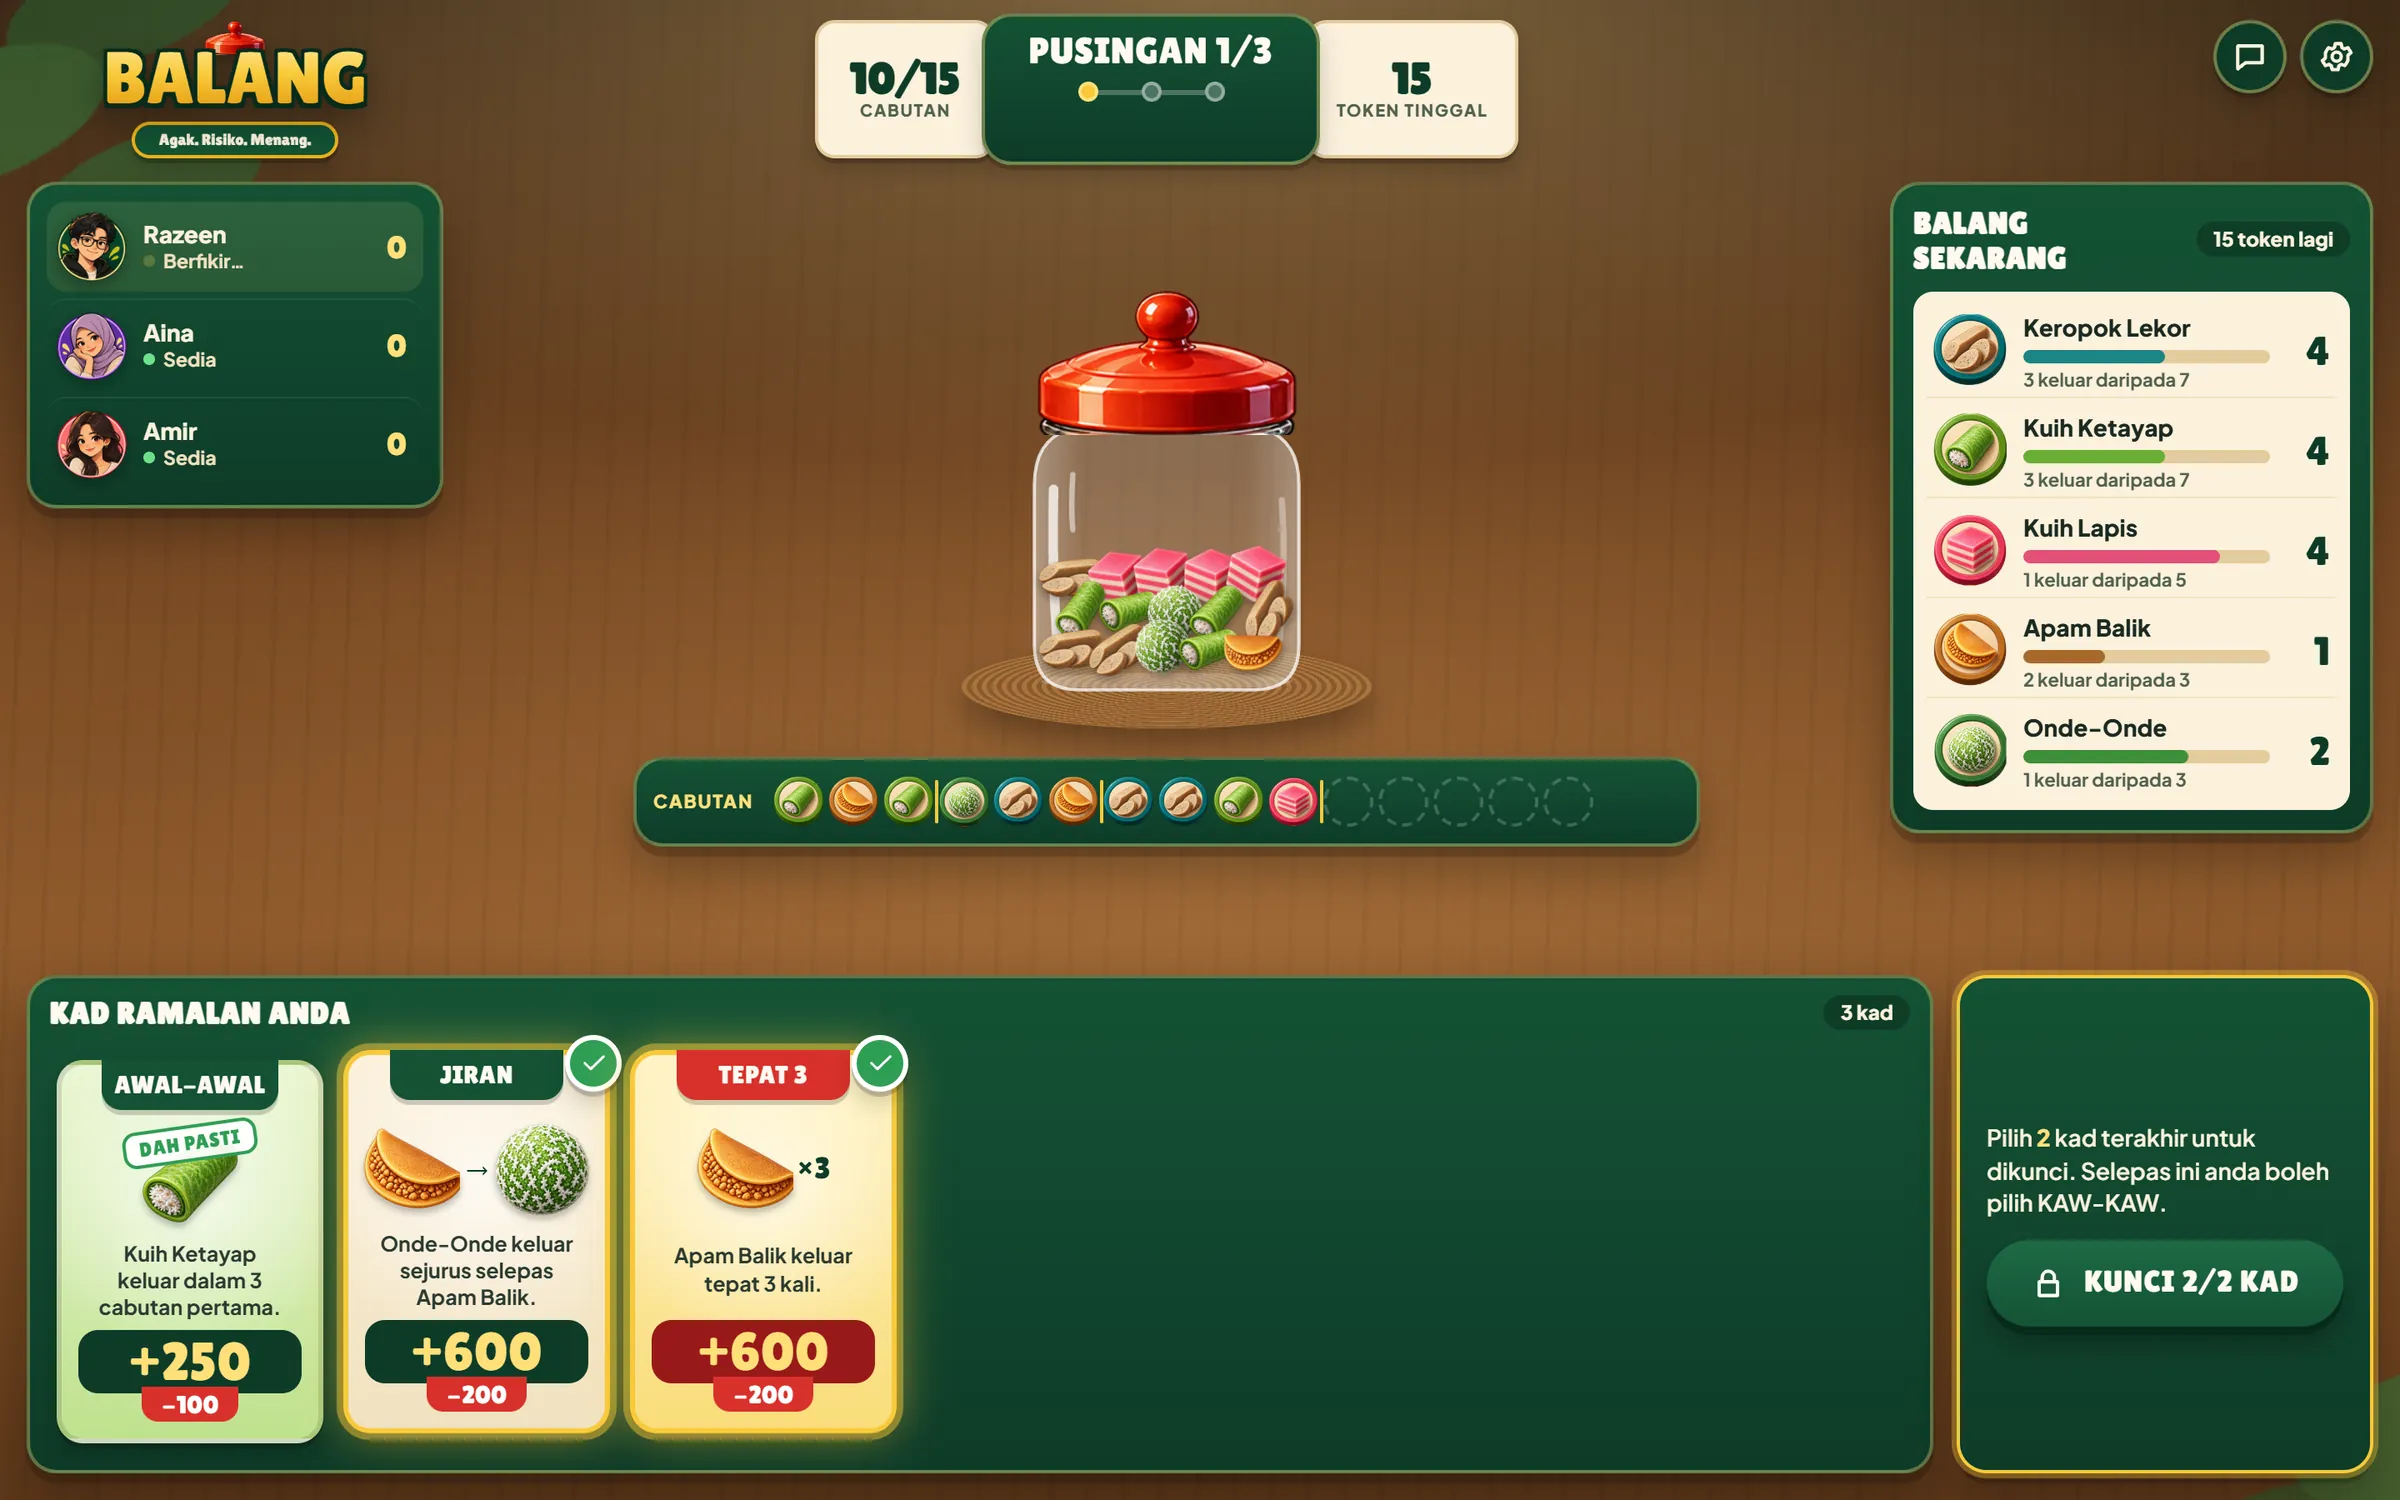
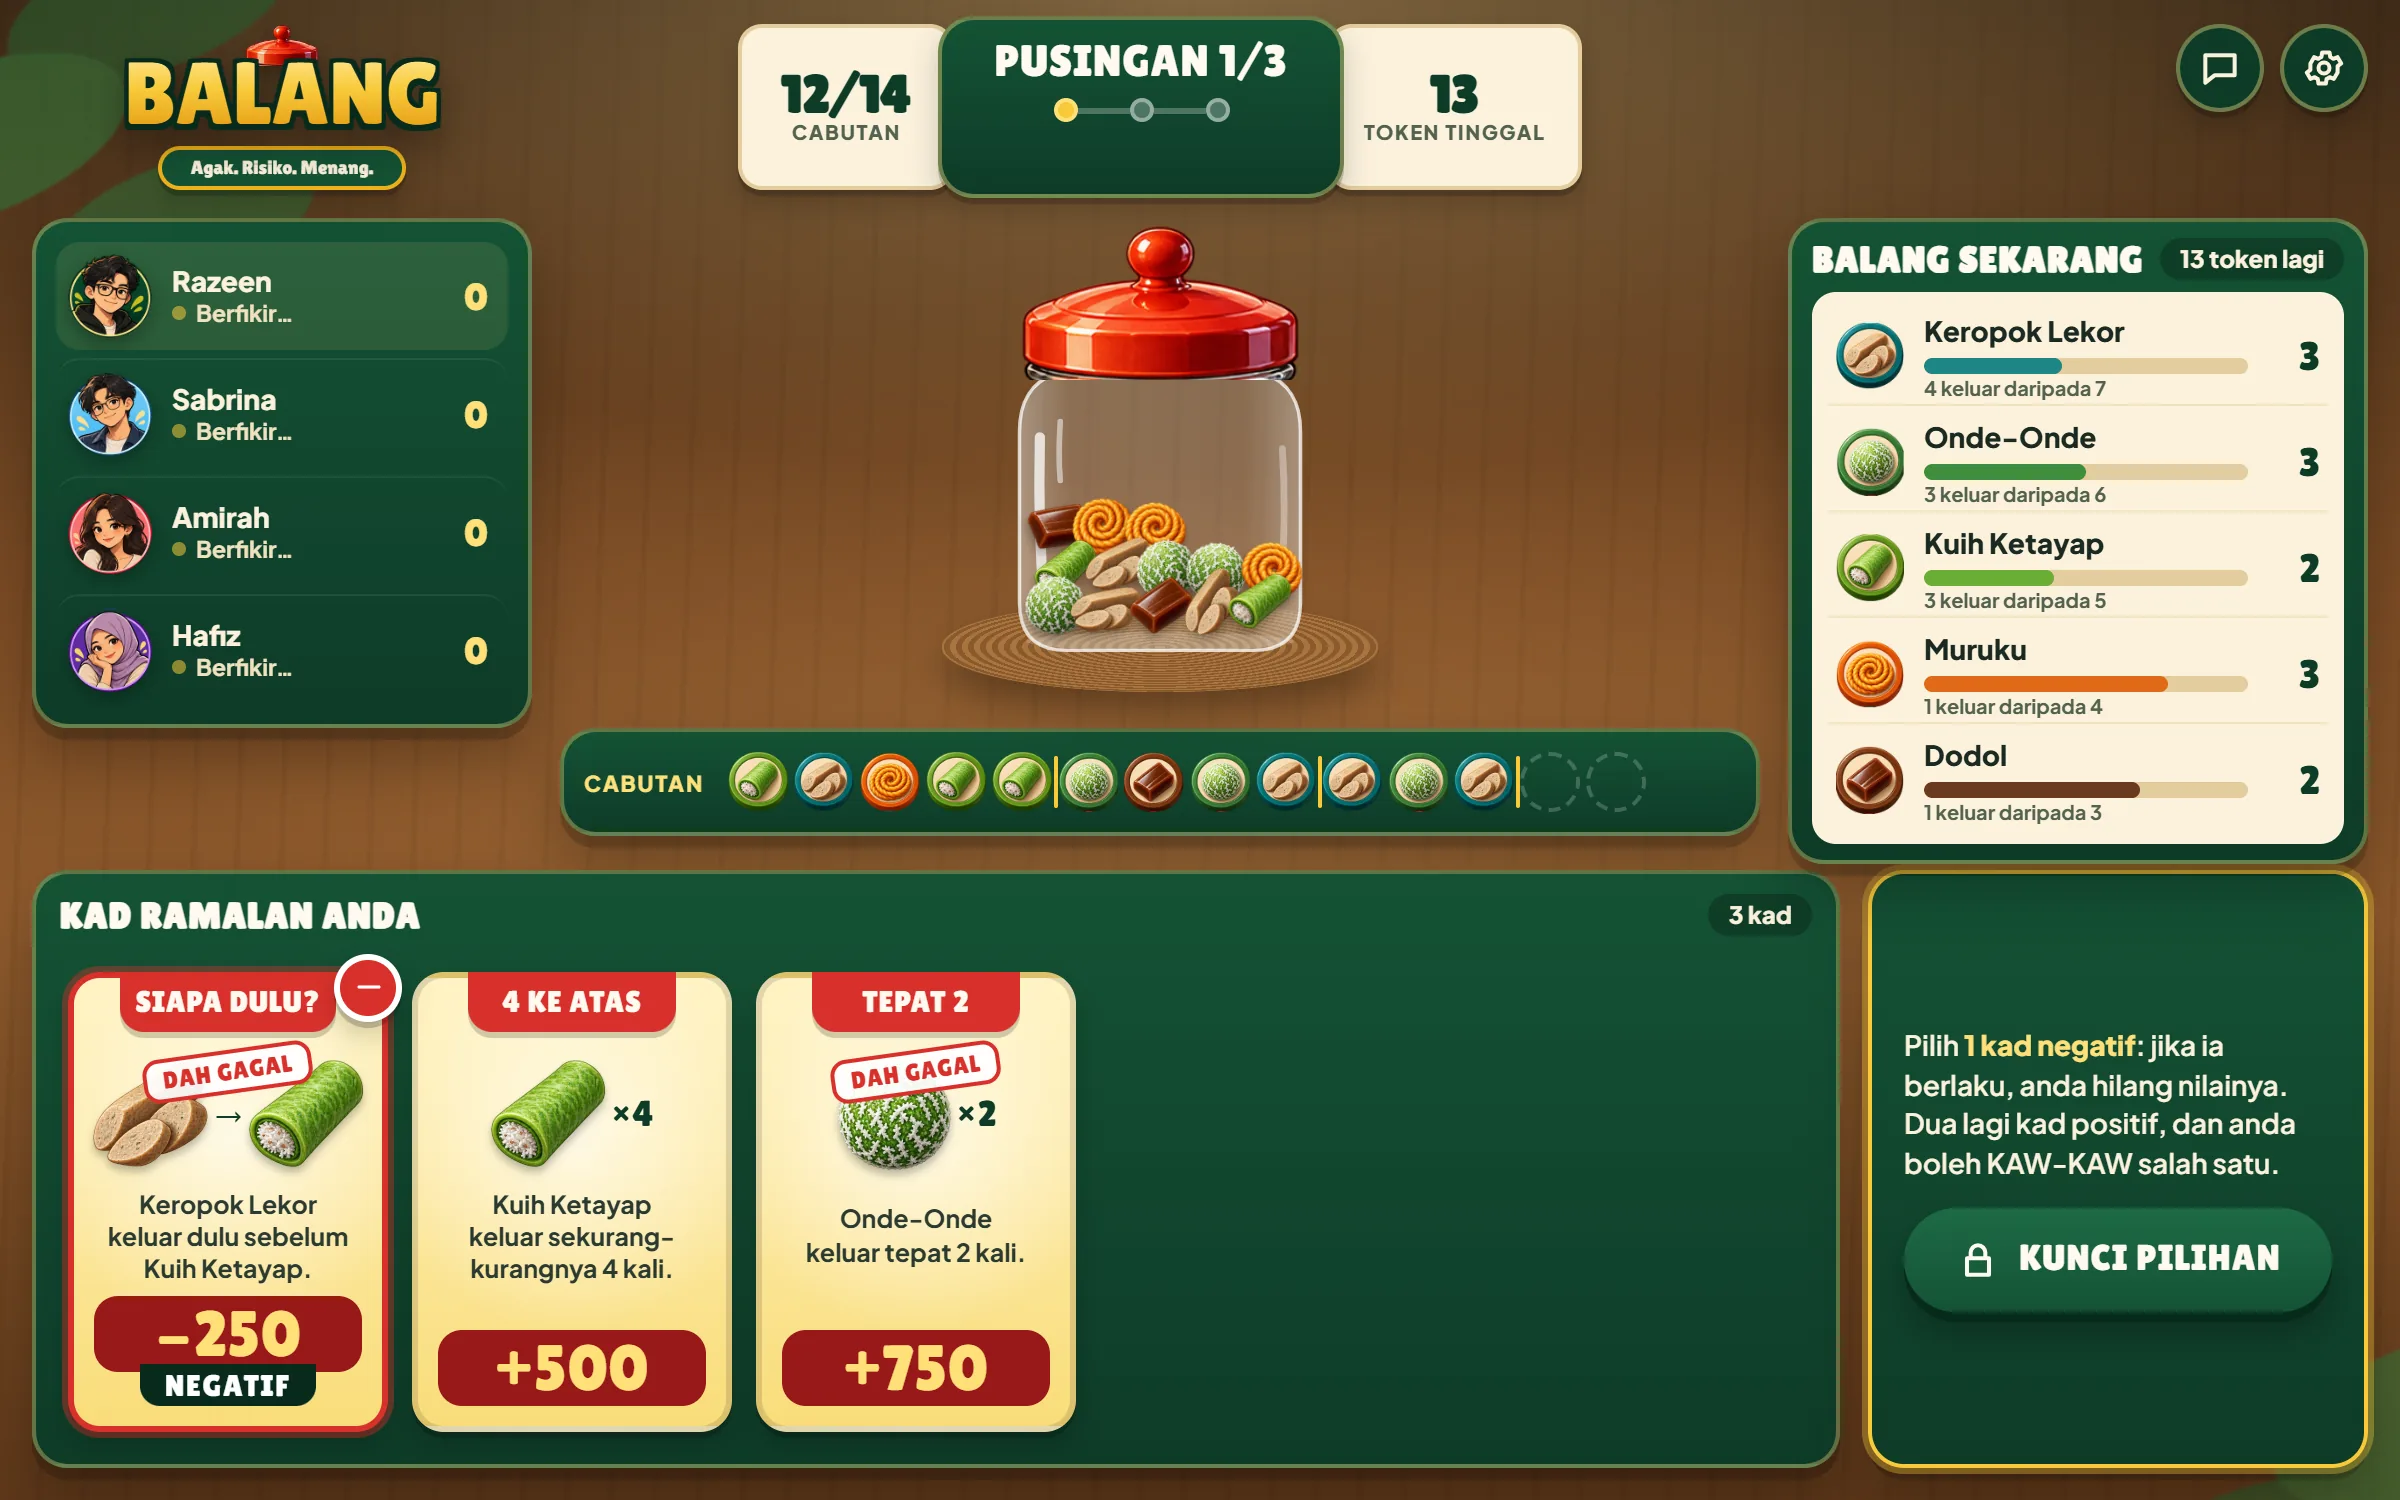
Balang: match the finalised rules and the real build
- Rules section and captions describe the final Bag of Chips style
  rules: decisions after draws 5, 9 and 12, the last three cards all
  count with one on the negative side, KAW-KAW on a positive card
- All eight gameplay screenshots recaptured from a real game on the
  final rules (same sizes); alt text updated
- Removed claims the build did not support: reward tiers tuned against
  the bot report, "thousands of rounds", a fixed jar mix
- Balance section states what happened: the old rules were too
  forgiving, which led to the negative-card rules
- Credits Bag of Chips as the inspiration

diff --git a/lib/assets.ts b/lib/assets.ts
@@ -128,10 +128,10 @@ export const assets = {
     landing: shot('/assets/v2/projects/balang/product/balang-landing.webp', 2400, 1500, 'BALANG landing page: Agak. Risiko. Menang. beside the kuih jar and prediction cards, with a four-step summary of a round', 'real-product'),
     observe: shot('/assets/v2/projects/balang/product/balang-observe.webp', 2400, 1500, 'BALANG round start: the jar contents counted by kuih type and the six secret prediction cards dealt to the player', 'real-product'),
     table: shot('/assets/v2/projects/balang/product/balang-table.webp', 2400, 1500, 'BALANG game table: players and scores, the jar, the draw track, the live jar count and the player prediction cards', 'real-product'),
-    discard: shot('/assets/v2/projects/balang/product/balang-discard.webp', 2400, 1500, 'BALANG discard step: two prediction cards marked for discarding after three draws', 'real-product'),
-    lock: shot('/assets/v2/projects/balang/product/balang-lock.webp', 2400, 1500, 'BALANG lock step: two final prediction cards selected to lock with ten tokens drawn', 'real-product'),
-    kawKaw: shot('/assets/v2/projects/balang/product/balang-kaw-kaw.webp', 2400, 1500, 'BALANG KAW-KAW choice: double the reward and the penalty on one locked card, or play safe', 'real-product'),
-    roundResult: shot('/assets/v2/projects/balang/product/balang-round-result.webp', 2400, 1500, 'BALANG round result: one prediction wrong and one KAW-KAW prediction right, the fifteen drawn tokens and the scores', 'real-product'),
+    discard: shot('/assets/v2/projects/balang/product/balang-discard.webp', 2400, 1500, 'BALANG discard step: two prediction cards marked for discarding after five draws', 'real-product'),
+    lock: shot('/assets/v2/projects/balang/product/balang-lock.webp', 2400, 1500, 'BALANG final placement: one of the last three prediction cards placed on the negative side with twelve tokens drawn', 'real-product'),
+    kawKaw: shot('/assets/v2/projects/balang/product/balang-kaw-kaw.webp', 2400, 1500, 'BALANG KAW-KAW choice: double the value of one positive card, at the risk of losing it, or play safe', 'real-product'),
+    roundResult: shot('/assets/v2/projects/balang/product/balang-round-result.webp', 2400, 1500, 'BALANG round result: a negative card that did not come true, a KAW-KAW card that did, one card wrong, the fourteen drawn tokens and the scores', 'real-product'),
     tableMobile: shot('/assets/v2/projects/balang/product/balang-table-mobile.webp', 1170, 2532, 'BALANG game table on a phone: the jar, token counts, draw track and swipeable prediction cards', 'real-product'),
   },
   running: {
